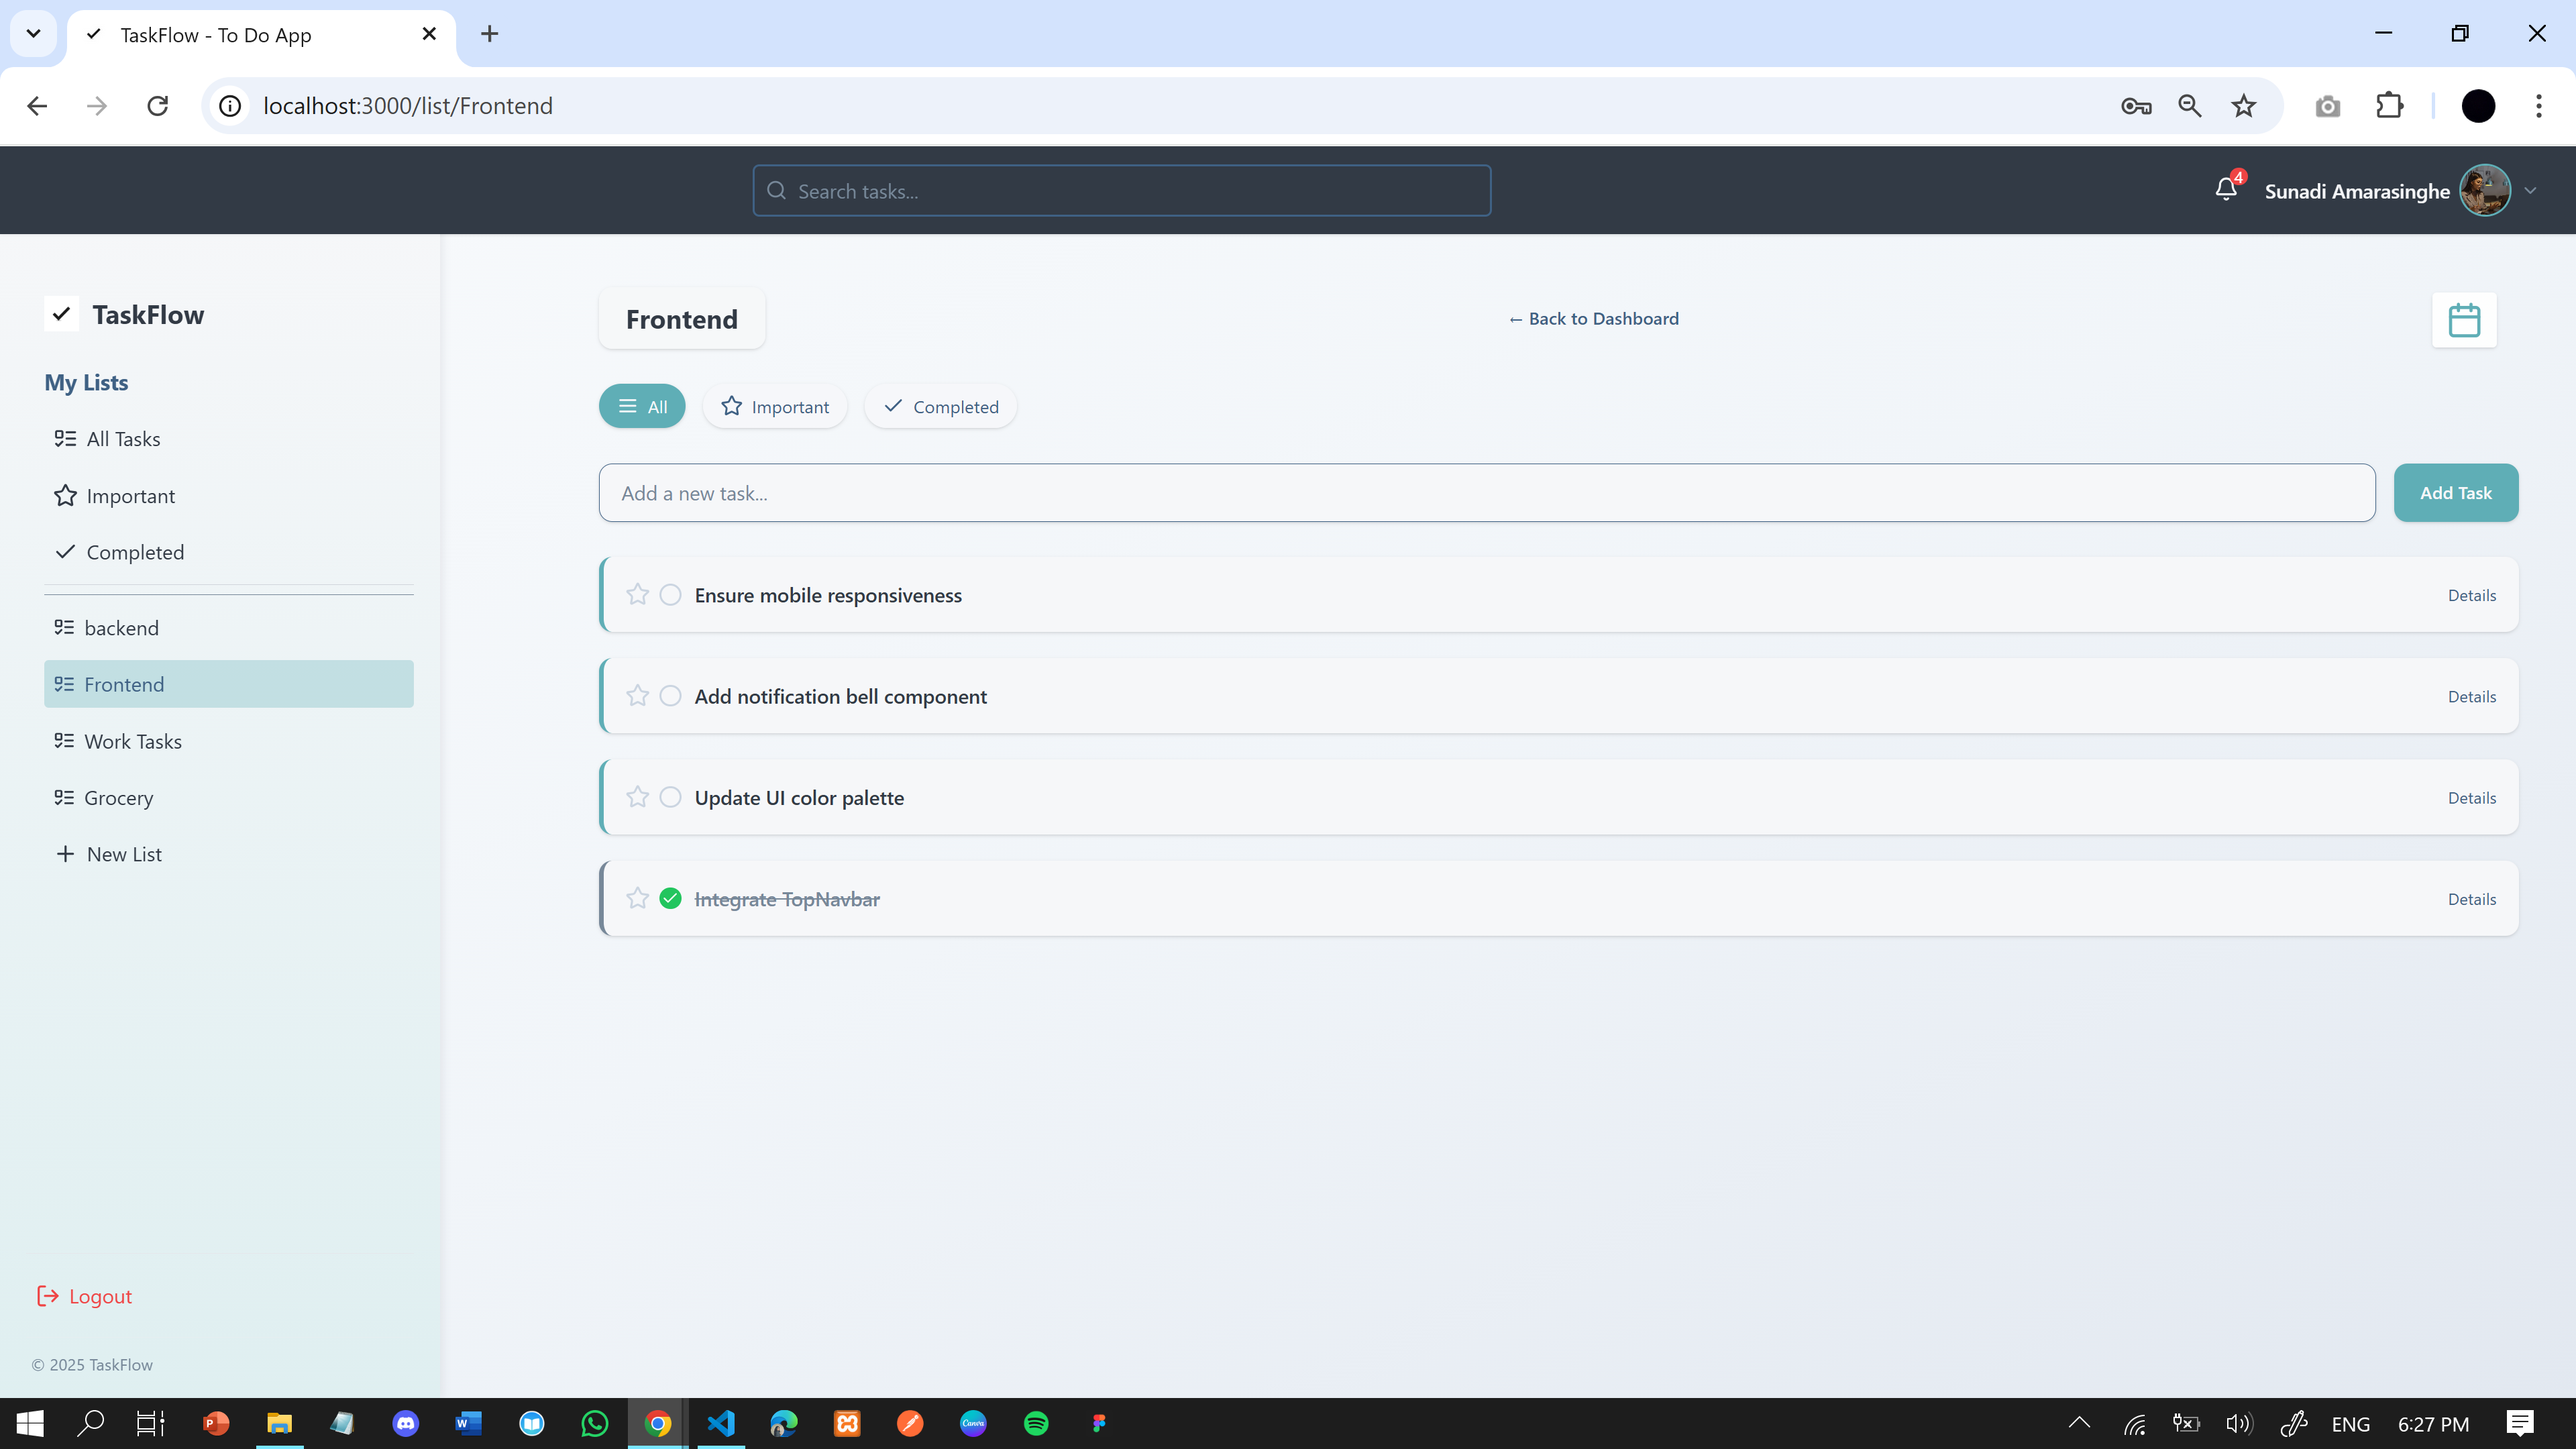
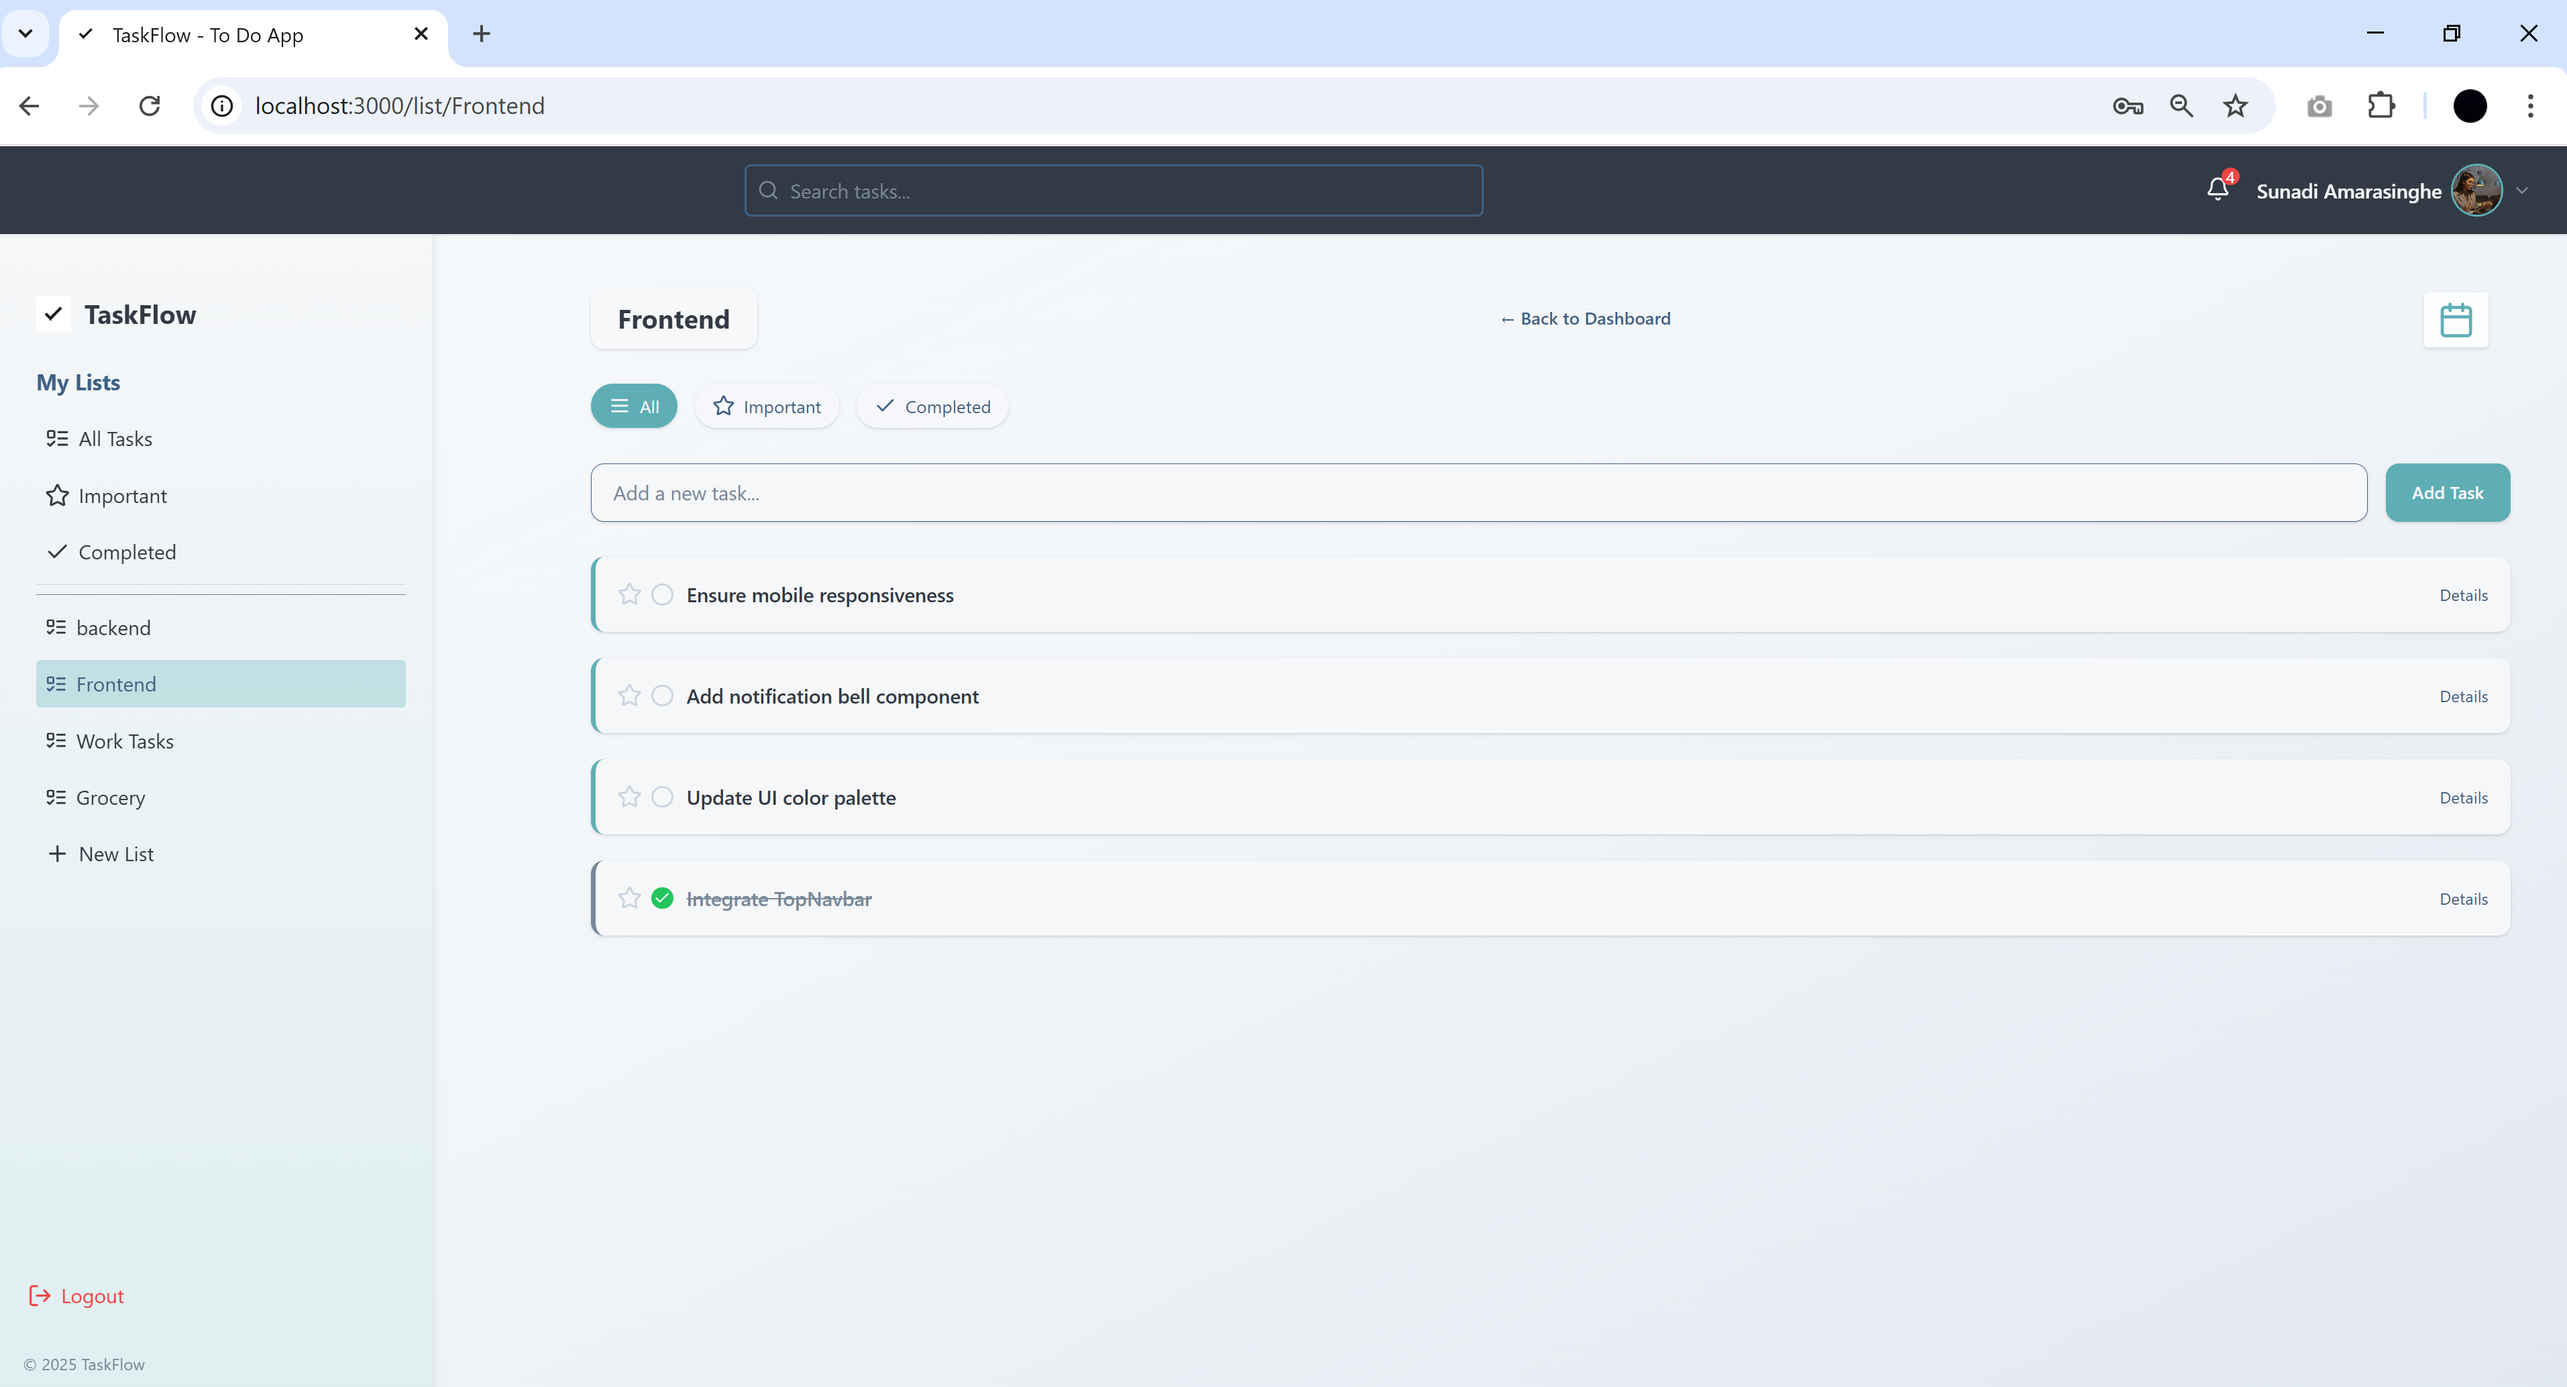
UI fixes

diff --git a/frontend/src/pages/Dashboard.jsx b/frontend/src/pages/Dashboard.jsx
@@ -379,18 +379,38 @@ const Dashboard = () => {
               >
                 <div className="flex items-center gap-3 w-full sm:w-auto">
                   <div className="flex items-center gap-2">
-                    <Star
-                      size={20}
-                      className={`cursor-pointer ${task.isImportant ? "text-yellow-400" : "text-slate-300 group-hover:text-yellow-400"}`}
-                      onClick={() => handleToggleImportant(task._id)}
-                    />
-                    <div
-                      onClick={() => handleToggleComplete(task._id, task.completed)}
-                      className={`w-5 h-5 rounded-full border-2 cursor-pointer flex items-center justify-center
-                        ${task.completed ? "bg-green-500 border-green-500" : "border-slate-300 group-hover:border-green-400"}`}
-                    >
-                      {task.completed && <Check size={14} className="text-white" />}
-                    </div>
+                    <span className="relative">
+                      <Star
+                        size={20}
+                        className={`cursor-pointer transition-colors duration-150
+                          ${task.isImportant ? "text-yellow-400" : "text-slate-300"}
+                        `}
+                        onClick={() => handleToggleImportant(task._id)}
+                        onMouseEnter={e => e.currentTarget.classList.add('text-yellow-300')}
+                        onMouseLeave={e => e.currentTarget.classList.remove('text-yellow-300')}
+                        style={task.isImportant ? { color: '#facc15' } : {}}
+                      />
+                    </span>
+                    <span className="relative">
+                      <div
+                        onClick={() => handleToggleComplete(task._id, task.completed)}
+                        className={`w-5 h-5 hover:border-green-500 rounded-full border-2 cursor-pointer flex items-center justify-center transition-colors duration-150
+                          ${task.completed ? "bg-green-500 border-green-500" : "border-slate-300"}
+                        `}
+                        onMouseEnter={e => {
+                          if (!task.completed) {
+                            e.currentTarget.classList.add('border-green-400');
+                          }
+                        }}
+                        onMouseLeave={e => {
+                          if (!task.completed) {
+                            e.currentTarget.classList.remove('border-green-400');
+                          }
+                        }}
+                      >
+                        {task.completed && <Check size={14} className="text-white" />}
+                      </div>
+                    </span>
                   </div>
                   
                   <span

diff --git a/frontend/src/pages/ListPage.jsx b/frontend/src/pages/ListPage.jsx
@@ -348,18 +348,38 @@ const ListPage = () => {
               >
                 <div className="flex items-center gap-3 w-full sm:w-auto">
                   <div className="flex items-center gap-2">
-                    <Star
-                      size={20}
-                      className={`cursor-pointer ${task.isImportant ? "text-yellow-400" : "text-slate-300 group-hover:text-yellow-400"}`}
-                      onClick={() => toggleImportant(task._id)}
-                    />
-                    <div
-                      onClick={() => toggleComplete(task._id, task.completed)}
-                      className={`w-5 h-5 rounded-full border-2 cursor-pointer flex items-center justify-center
-                        ${task.completed ? "bg-green-500 border-green-500" : "border-slate-300 group-hover:border-green-400"}`}
-                    >
-                      {task.completed && <Check size={14} className="text-white" />}
-                    </div>
+                    <span className="relative">
+                      <Star
+                        size={20}
+                        className={`cursor-pointer transition-colors duration-150
+                          ${task.isImportant ? "text-yellow-400" : "text-slate-300"}
+                        `}
+                        onClick={() => toggleImportant(task._id)}
+                        onMouseEnter={e => e.currentTarget.classList.add('text-yellow-300')}
+                        onMouseLeave={e => e.currentTarget.classList.remove('text-yellow-300')}
+                        style={task.isImportant ? { color: '#facc15' } : {}}
+                      />
+                    </span>
+                    <span className="relative">
+                      <div
+                        onClick={() => toggleComplete(task._id, task.completed)}
+                        className={`w-5 h-5 hover:border-green-500 rounded-full border-2 cursor-pointer flex items-center justify-center transition-colors duration-150
+                          ${task.completed ? "bg-green-500 border-green-500" : "border-slate-300"}
+                        `}
+                        onMouseEnter={e => {
+                          if (!task.completed) {
+                            e.currentTarget.classList.add('border-green-400');
+                          }
+                        }}
+                        onMouseLeave={e => {
+                          if (!task.completed) {
+                            e.currentTarget.classList.remove('border-green-400');
+                          }
+                        }}
+                      >
+                        {task.completed && <Check size={14} className="text-white" />}
+                      </div>
+                    </span>
                   </div>
                   
                   <span
